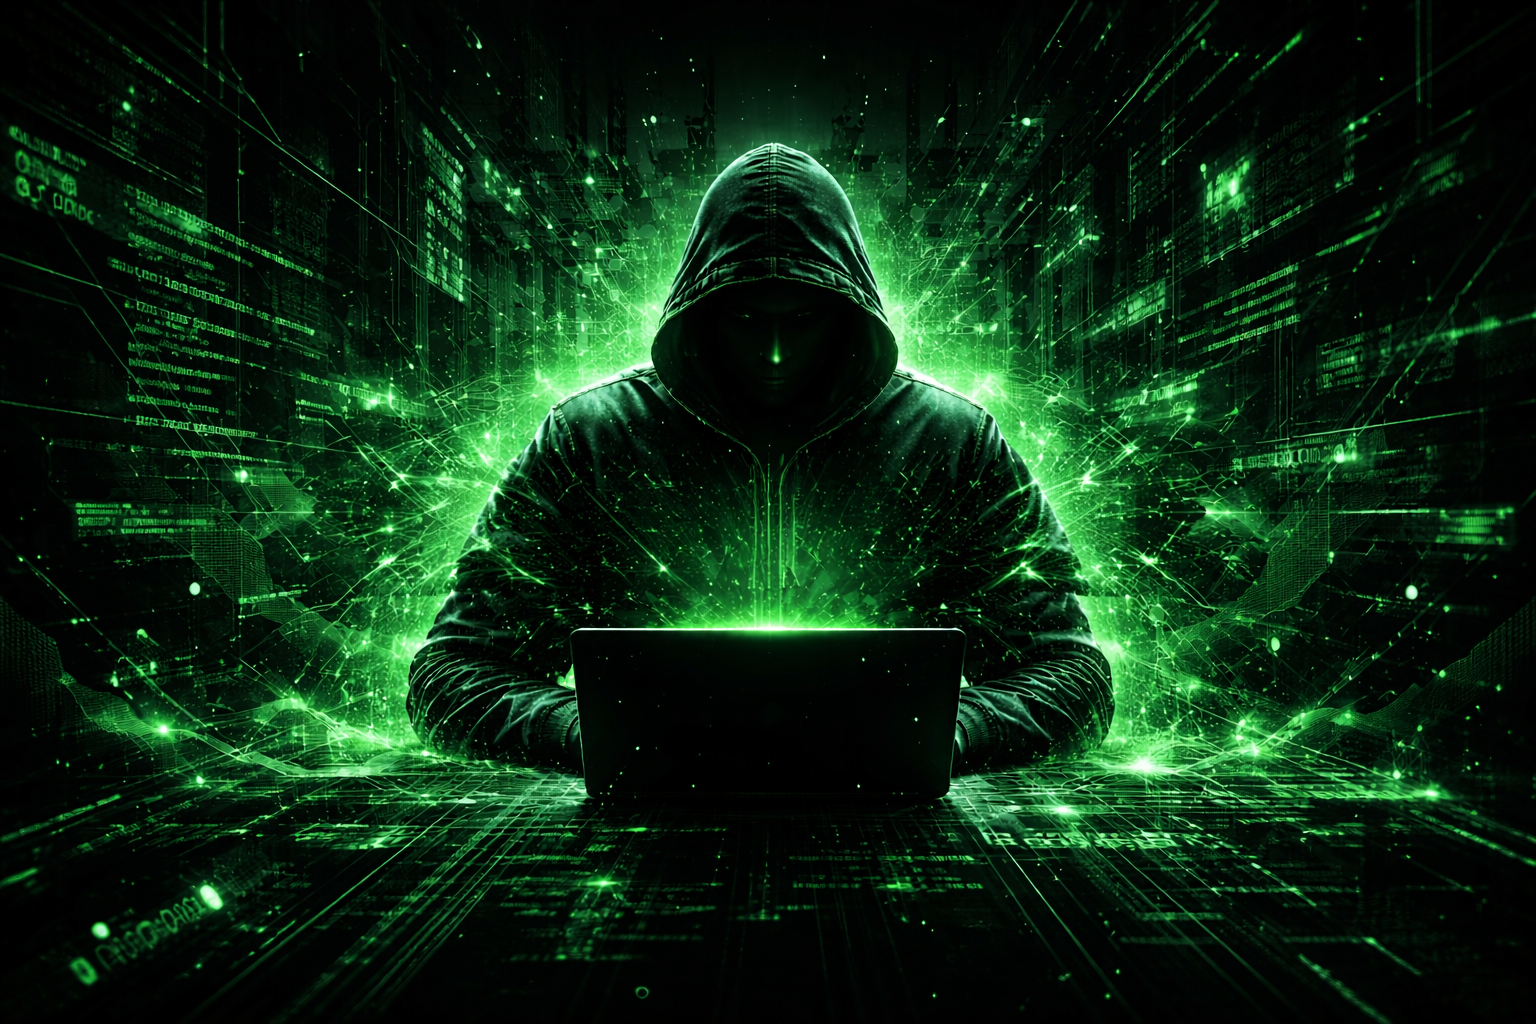
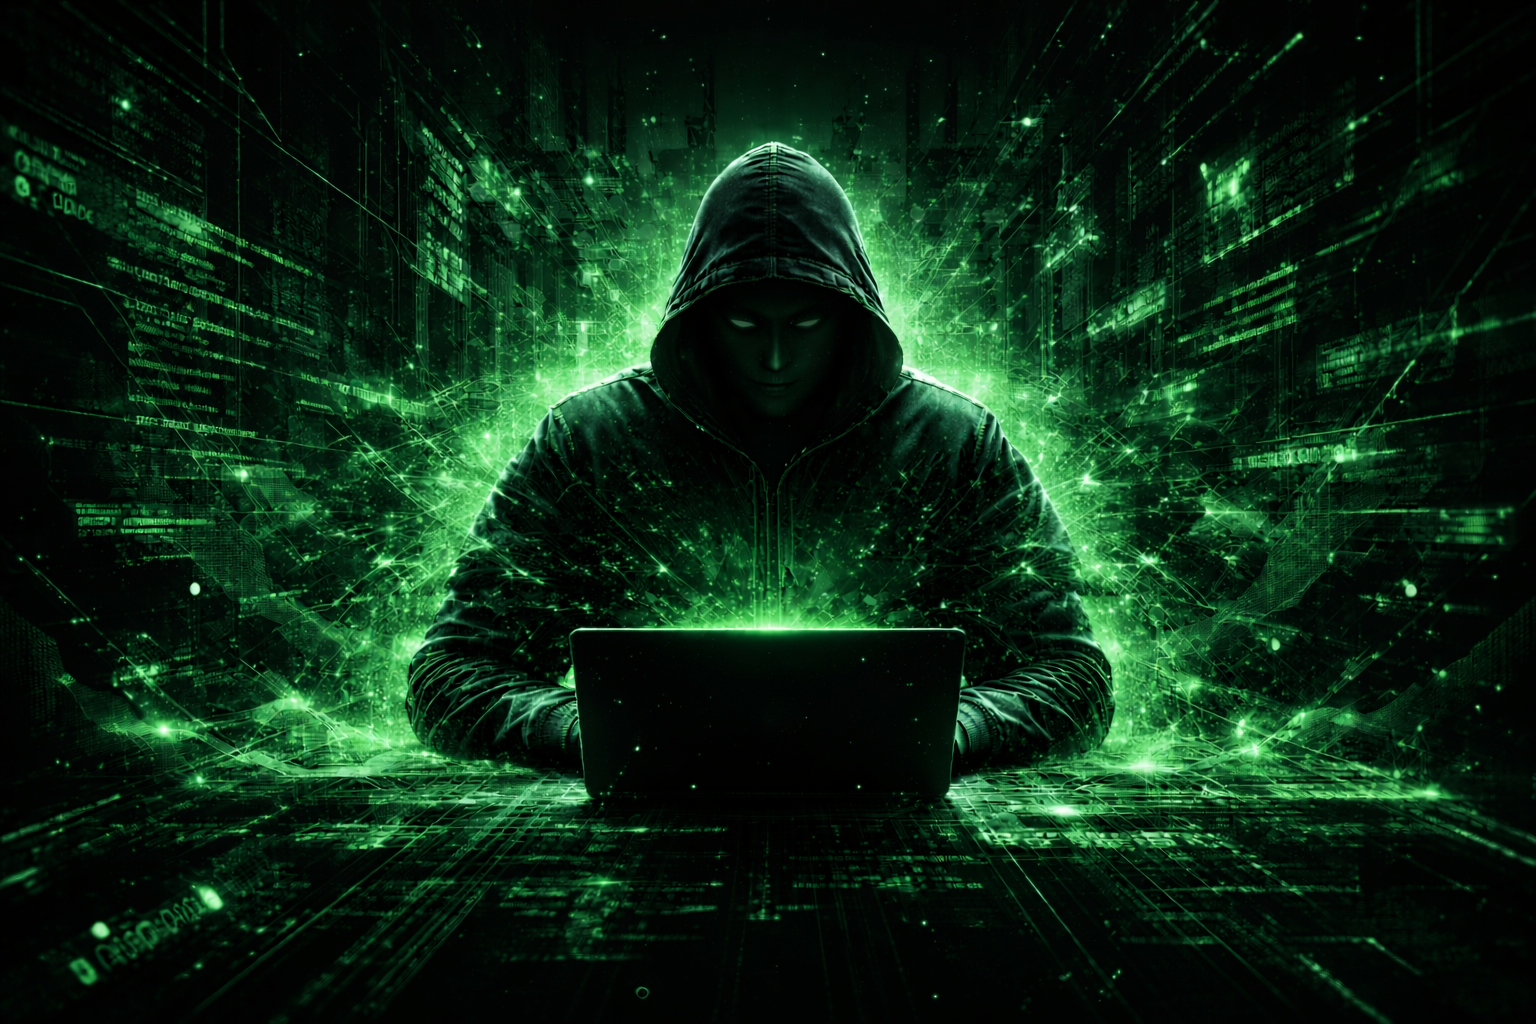
xd

diff --git a/apps/core/templates/core/index.html b/apps/core/templates/core/index.html
@@ -1,31 +1,173 @@
 <!DOCTYPE html>
-<html>
-    <head>
-        <meta charset="UTF-8" />
-        <meta name="viewport" content="width=device-width, initial-scale=1" />
-        <link rel="stylesheet" href="{{ url_for('core.static', filename='css/style.css') }}" />
-        <script src="https://cdn.jsdelivr.net/npm/@tailwindcss/browser@4"></script>
-        <title>名称未定</title>
-    </head>
-    <body>
-        <div class="bg-neutral-800 text-neutral-200">
-            {% include 'base/header.html' %}
-            <div class="relative h-screen -mt-14">
-                {# 背景画像 #}
-                <div class="absolute inset-0 z-0 bg-[url('{{ url_for('core.static', filename='img/background.png') }}')] bg-cover bg-center"></div>
-                {# 暗幕 #}
-                <div class="absolute inset-0 z-0 bg-black/60"></div>
-                {# グラデーション #}
-                <div class="absolute inset-x-0 z-0 bottom-0 h-24 bg-gradient-to-b from-transparent to-neutral-800"></div>
-                {# 画像上のコンテンツ #}
-                <div class="relative z-10 h-full">
-                    <div class="mx-auto h-full flex items-center">
-                        <div>
-                            <h1 class="text-5xl font-bold tracking-tight">議論が、知識になる。</h1>
-                        </div>
-                    </div>
-                </div>
-            </div>
+<html lang="ja">
+  <head>
+    <meta charset="UTF-8" />
+    <meta name="viewport" content="width=device-width, initial-scale=1" />
+
+    <!-- Tailwind（あなたの現状に合わせて browser版） -->
+    <script src="https://cdn.jsdelivr.net/npm/@tailwindcss/browser@4"></script>
+
+    <!-- 既存CSS（必要なら） -->
+    <link rel="stylesheet" href="{{ url_for('core.static', filename='css/style.css') }}" />
+
+    <title>名称未定</title>
+  </head>
+
+  <body class="min-h-screen bg-neutral-800 text-neutral-200">
+    {#
+    <!-- ========= Header ========= -->
+    <header class="sticky top-0 z-50">
+      <div class="mx-auto max-w-6xl px-6 py-4 flex items-center justify-between gap-4">
+        <a href="{{ url_for('core.index') }}"
+           class="font-semibold tracking-tight">
+          名称未定
+        </a>
+        <a href="{{ url_for('main.category_all') }}">こちら</a>
+
+        <!-- 検索（未ログインでも使う想定。actionはあなたの検索ルートに合わせて変えてOK） -->
+        <form class="hidden md:flex flex-1 max-w-xl"
+              method="GET"
+              action="#">
+          <input
+            name="q"
+            placeholder="検索…"
+            class="w-full rounded-xl bg-neutral-800/80 border border-neutral-700 px-4 py-2 text-sm outline-none focus:border-[#149414]"
+          />
+        </form>
+
+        <div class="flex items-center gap-2">
+          <a href="#" class="px-4 py-2 rounded-xl border border-neutral-700 bg-neutral-900/50 hover:bg-neutral-900 text-sm">
+            ログイン
+          </a>
+          <a href="#" class="px-4 py-2 rounded-xl bg-[#149414] text-black font-semibold hover:opacity-90 text-sm">
+            新規登録
+          </a>
         </div>
-    </body>
+      </div>
+    </header>
+    #}
+
+    <!-- ========= Hero (100vh) ========= -->
+    <section class="relative h-screen">
+      <!-- 背景画像 -->
+      <div
+        class="absolute inset-0 bg-[url('{{ url_for('core.static', filename='img/background.png') }}')] bg-cover bg-center"></div>
+
+      <!-- 暗幕 -->
+      <div class="absolute inset-0 bg-black/50"></div>
+
+      <!-- 下方向のグラデで「次の無地」へ繋ぐ -->
+      <div class="absolute inset-x-0 bottom-0 h-24 bg-gradient-to-b from-transparent to-neutral-800"></div>
+
+      <!-- 中身 -->
+        {% include 'base/header.html' %}
+      <div class="relative z-10 h-full">
+        <div class="mx-auto max-w-6xl px-6 h-full flex items-center">
+          <div class="max-w-2xl">
+            <h1 class="text-5xl md:text-6xl font-bold tracking-tight">
+              議論が、知識になる。
+            </h1>
+            <p class="mt-6 text-base md:text-lg text-neutral-200/90 leading-relaxed">
+              蓄積された議論データを、AIが自動で構造化された辞典へと昇華<br>計算機科学分野に特化した動的知識基盤
+            </p>
+
+            <div class="mt-10 flex flex-wrap gap-3">
+              <a href="#" class="px-6 py-3 rounded-2xl bg-[#149414] text-black font-semibold hover:opacity-90">
+                無料で始める
+              </a>
+              <a href="#" class="px-6 py-3 rounded-2xl border border-neutral-700 bg-neutral-900/40 hover:bg-neutral-900/70">
+                まずは閲覧
+              </a>
+            </div>
+          </div>
+        </div>
+      </div>
+    </section>
+
+    <!-- ========= Main (plain background) ========= -->
+    <main class="mx-auto max-w-6xl px-6 py-14 space-y-14">
+      <!-- 特徴 -->
+      <section>
+        <div class="grid gap-4 md:grid-cols-3">
+          <div class="rounded-2xl border border-neutral-700 bg-neutral-900/40 p-6">
+            <div class="text-lg font-semibold">フォーラムで議論</div>
+            <div class="mt-2 text-sm text-neutral-200/75">質問・回答・議論がそのまま資産になります。</div>
+          </div>
+          <div class="rounded-2xl border border-neutral-700 bg-neutral-900/40 p-6">
+            <div class="text-lg font-semibold">AIが要点を整理</div>
+            <div class="mt-2 text-sm text-neutral-200/75">長いスレも、論点と結論を読みやすく。</div>
+          </div>
+          <div class="rounded-2xl border border-neutral-700 bg-neutral-900/40 p-6">
+            <div class="text-lg font-semibold">Wikiとして蓄積</div>
+            <div class="mt-2 text-sm text-neutral-200/75">トピック別にまとまり、後から探せます。</div>
+          </div>
+        </div>
+      </section>
+
+      <!-- 中身の例（ダミー） -->
+      <section class="grid gap-4 md:grid-cols-2">
+        <div class="rounded-2xl border border-neutral-700 bg-neutral-900/30 p-6">
+          <div class="flex items-baseline justify-between gap-3">
+            <div class="text-lg font-semibold">最近更新されたWiki</div>
+            <a href="#" class="text-sm text-neutral-200/70 hover:text-neutral-200">もっと見る</a>
+          </div>
+          <ul class="mt-4 space-y-3 text-sm">
+            <li class="border-b border-neutral-700/60 pb-3">ZTA（Zero Trust Architecture）</li>
+            <li class="border-b border-neutral-700/60 pb-3">OAuth 2.0 / OIDC</li>
+            <li class="border-b border-neutral-700/60 pb-3">CSRF / XSS</li>
+          </ul>
+        </div>
+
+        <div class="rounded-2xl border border-neutral-700 bg-neutral-900/30 p-6">
+          <div class="flex items-baseline justify-between gap-3">
+            <div class="text-lg font-semibold">人気カテゴリ</div>
+            <a href="#" class="text-sm text-neutral-200/70 hover:text-neutral-200">一覧</a>
+          </div>
+          <div class="mt-4 flex flex-wrap gap-2 text-sm">
+            <span class="px-3 py-2 rounded-xl border border-neutral-700 bg-neutral-900/40">ネットワーク</span>
+            <span class="px-3 py-2 rounded-xl border border-neutral-700 bg-neutral-900/40">セキュリティ</span>
+            <span class="px-3 py-2 rounded-xl border border-neutral-700 bg-neutral-900/40">言語</span>
+            <span class="px-3 py-2 rounded-xl border border-neutral-700 bg-neutral-900/40">AWS</span>
+          </div>
+        </div>
+      </section>
+
+      <!-- 下部CTA -->
+      <section class="rounded-2xl border border-neutral-700 bg-neutral-900/35 p-8 flex flex-col md:flex-row md:items-center md:justify-between gap-4">
+        <div>
+          <div class="text-xl font-semibold">今すぐ始めませんか</div>
+          <div class="mt-1 text-sm text-neutral-200/75">議論が積み上がるほど、Wikiが賢くなります。</div>
+        </div>
+        <div class="flex gap-3">
+          <a href="#" class="px-6 py-3 rounded-2xl bg-[#149414] text-black font-semibold hover:opacity-90">
+            新規登録
+          </a>
+          <a href="#" class="px-6 py-3 rounded-2xl border border-neutral-700 bg-neutral-900/40 hover:bg-neutral-900/70">
+            ログイン
+          </a>
+        </div>
+      </section>
+    </main>
+
+    {#
+    <!-- ========= Footer ========= -->
+    <footer class="border-t border-neutral-700/60 bg-neutral-900/40">
+      <div class="mx-auto max-w-6xl px-6 py-10 flex flex-col md:flex-row md:items-center md:justify-between gap-6">
+        <div class="text-sm text-neutral-200/70">
+          © 2026 名称未定
+        </div>
+        <div class="flex flex-wrap gap-4 text-sm">
+          <a href="#" class="text-neutral-200/70 hover:text-neutral-200">利用規約</a>
+          <a href="#" class="text-neutral-200/70 hover:text-neutral-200">プライバシー</a>
+          <a href="#" class="text-neutral-200/70 hover:text-neutral-200">GitHub</a>
+          <a href="#" class="text-neutral-200/70 hover:text-neutral-200">X</a>
+        </div>
+      </div>
+    </footer>
+    #}
+    <div>
+      {% include 'base/footer.html' %}
+    </div>
+
+  </body>
 </html>

diff --git a/apps/core/templates/base/.html b/apps/core/templates/base/.html
@@ -18,8 +18,8 @@
     </head>
     <body>
         {% block body %}{% endblock %}
-        <div class="min-h-screen flex flex-col bg-neutral-800">
-            <div class="text-neutral-200 flex-1">
+        <div class="min-h-screen bg-neutral-800 text-neutral-200">
+            <div>
                 {% include 'base/header.html' %}
                 <div class="{% block content_width %}px-80{% endblock %} py-10">
                     {% block content %}{% endblock %}

diff --git a/apps/core/templates/base/footer.html b/apps/core/templates/base/footer.html
@@ -1,5 +1,5 @@
 <div>
-    <div class="px-3 pb-1 flex items-center justify-between text-neutral-600 text-xs">
+    <div class="px-3 pb-1 flex items-center justify-between text-neutral-500 text-xs">
         <div class="flex gap-5">
             <a href="{{ url_for('core.tos') }}" class="underline hover:opacity-70">利用規約</a>
             <a href="{{ url_for('core.pp') }}" class="underline hover:opacity-70">プライバシーポリシー</a>

diff --git a/apps/core/templates/base/header.html b/apps/core/templates/base/header.html
@@ -1,5 +1,5 @@
-<div class="px-120">
-  <div class="bg-neutral-900/50 text-neutral-200 border-b border-neutral-700 shadow-md shadow-[#149414] rounded-b-2xl">
+<div class="px-120 sticky">
+  <div class="bg-neutral-900/50 text-neutral-200 top-0 z-50 border-b border-neutral-700 shadow-md shadow-[#149414] rounded-b-2xl">
     <div class="mx-auto px-6">
       <div class="h-14 flex items-center justify-between gap-6">
         <!-- Logo -->
